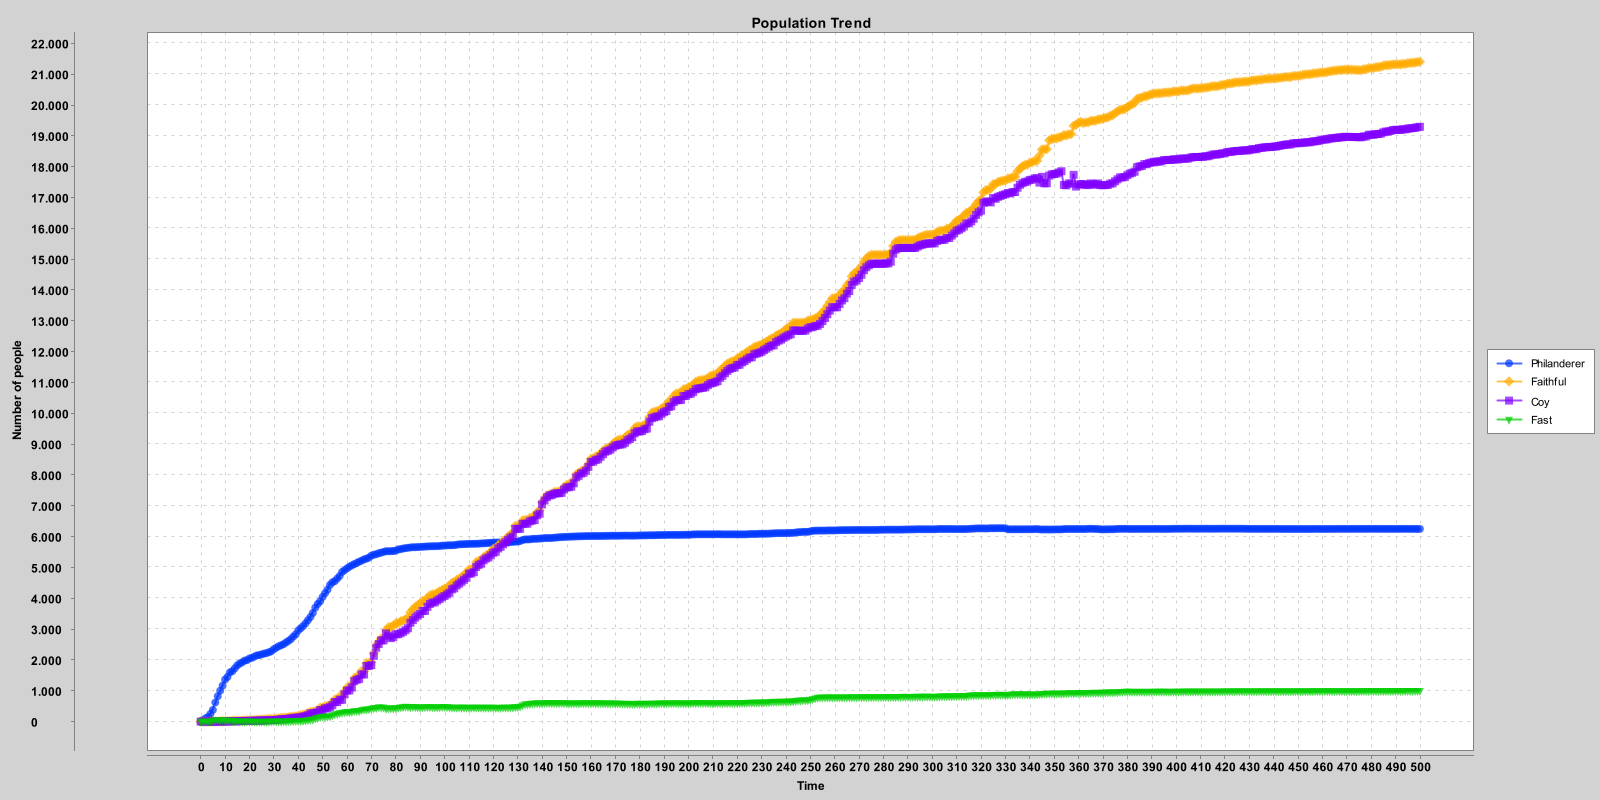
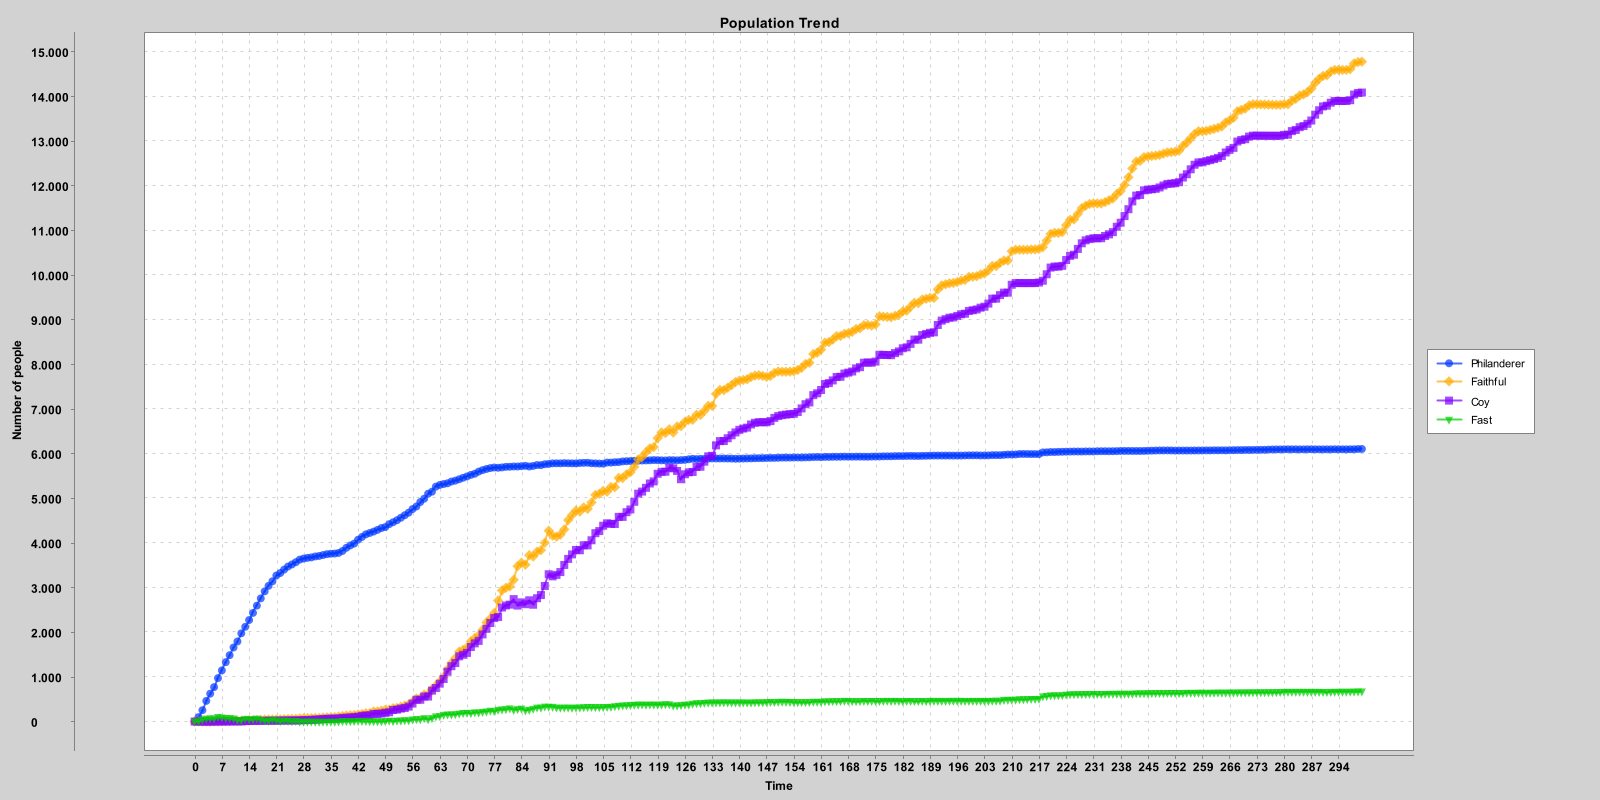
Ho aggiunto mutation e levato delle cose, il codice finale riguardiamolo insieme

diff --git a/src/Fast.java b/src/Fast.java
@@ -26,7 +26,7 @@ public class Fast extends Female {
             gentleman.points += Population.a;
             this.points += (Population.a - Population.b);
 
-            if(random.nextInt(0,100)==10){
+           /* if(random.nextInt(0,100)==10){
                 if(random.nextBoolean()){
                     Coy pers = new Coy();
                     pers.start();
@@ -36,7 +36,7 @@ public class Fast extends Female {
                     pers.start();
                 }
                 return;
-            }
+            }*/
 
             if(random.nextBoolean()){
                 Fast pers = new Fast();
@@ -56,10 +56,10 @@ public class Fast extends Female {
             gentleman.points += (Population.payoff_FS);
             this.points += (Population.payoff_FS);
 
-            if(random.nextInt(0,100)==10){
+            /*if(random.nextInt(0,100)==10){
                 mutation(gentleman);
                 return;
-            }
+            }*/
 
             if(random.nextBoolean()){
                 Fast pers = new Fast();

diff --git a/src/Coy.java b/src/Coy.java
@@ -30,10 +30,10 @@ public class Coy extends Female {
             gentleman.points += (Population.payoff_FC);
             this.points += (Population.payoff_FC);
 
-            if(random.nextInt(0,100)==10){
+            /*if(random.nextInt(0,100)==10){
                 mutation(gentleman);
                 return;
-            }
+            }*/
 
             if(random.nextBoolean()){
                 Coy pers = new Coy();

diff --git a/src/Main.java b/src/Main.java
@@ -22,7 +22,7 @@ public class Main {
         Population.updateGraph(0); // graph at time zero
 
         int i = 0;
-        while (i < 500) {
+        while (i < 300) {
             i++;
             Time.dayTime(30); // true
             Time.nightTime(i); // false
